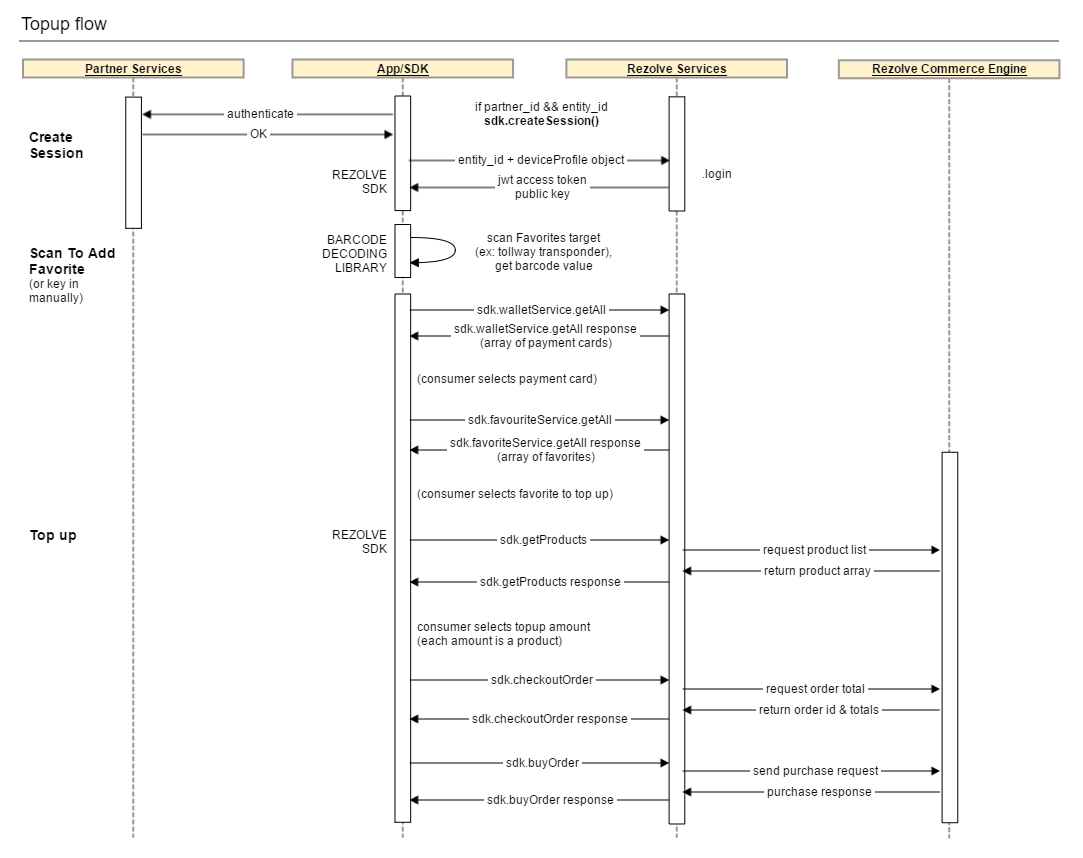
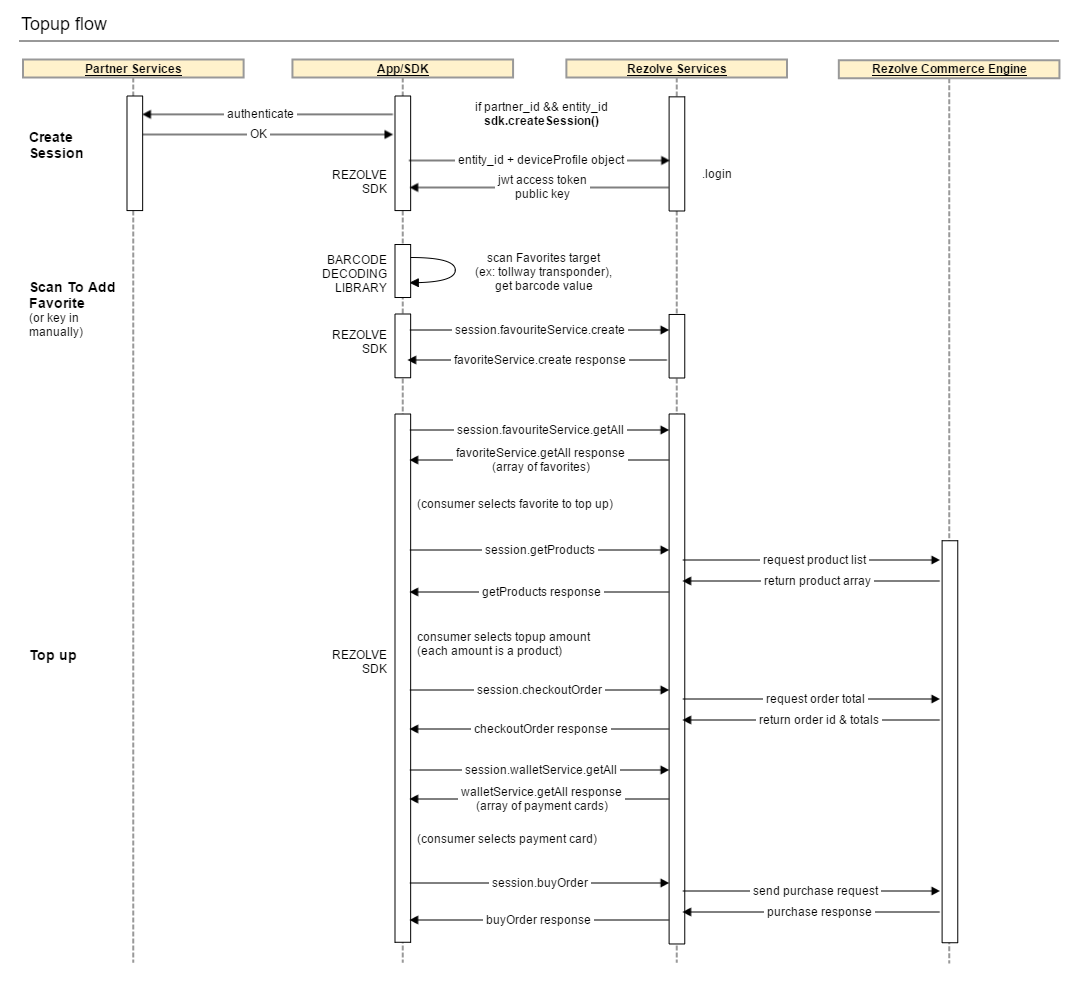
updated diagrams, added code sample holders.

diff --git a/source/index.html.md b/source/index.html.md
@@ -184,21 +184,24 @@ let sdk: RezolveSDK = RezolveSDK(apiKey: API_KEY, env: .Development)
 
 sdk.createSession(authenticationRequest: request) { (session: RezolveSession) in
 	// begin interacting with features
+    // example: session.CustomerProfileService.get
 }
 ```
 ```java
-private final static String API_KEY = "ABC123";
-private RezolveSession rezolveSession;
-
-RezolveSDK sdk = RezolveSDK.getInstance(API_KEY, RezolveSDK.Env.DEVELOPMENT);
+TODO add code sample
 ```
 To log in and interact with Rezolve services, you must establish a session. A session combines several functions, and abstracts them from the developer:
+
 * Verifies the validity of the mobile app, through the API key
 * Identifies the consumer and pairs them with a session token
 * Verifies each request from the mobile app by passing API Key and session token
 * establishes a public key for the session, for encrypting transmitted credit card info
 
-Once the user is authenticated on the partner side, make a call to `createSession{}`, passing in the `entity_id`. The server will respond with a session authentication token, and a session public key. The SDK takes care of managing these for the session. The auth token is used to authenticate each request from the client, while the public key is used for encrypting the transmission of sensitive information for this session.
+Once the user is authenticated on the partner side, make a call to `createSession{}`, passing in the `entity_id`. The server will respond with a session authentication token, and a session public key; the SDK takes care of managing these for the session. The auth token is used to authenticate each request from the client, while the public key is used for encrypting the transmission of payment card information for this session.
+
+When the session is established, you can begin to access services, for example:
+`session.CustomerProfileService.get`
+
 
 ### Logout Session
 
@@ -213,14 +216,16 @@ Logging a user out is as simple as passing the `entity_id` to the logout method.
 ## Consumer Profile Management
 
 Once logged in, you have access to the consumer's records. These include:
-* Consumer Profile - Name, email, and device profile (phone info) for the consumer
-* Address Book - A collection of postal addresses, to be used for ship-to and bill-to purposes.
-* Favorites - A collection of devices that can be topped up.  A favorite can represent a mobile phone, a tollway transponder, or other device/account.
-* Wallet - Wallet lets you store credit card info securely, and lets the consumer maintain the list of cards. There can be multiple cards.
+* Consumer Profile - Via the `ConsumerProfileService`. Name, email, and device profile (phone info) for the consumer
+* Address Book - Via the `AddressbookService`. A collection of postal addresses, to be used for ship-to and bill-to purposes.
+* Favorites - Via the `FavouriteService`. A collection of devices that can be topped up.  A favorite can represent a mobile phone, a tollway transponder, or other device/account.
+* Wallet - Via the `WalletService`. Wallet lets you store credit card info securely, and lets the consumer maintain the list of cards. There can be multiple cards.
 
-There are no specific flows to consider when managing the customer profile and assicated records. The consumer profile itself supports only update... no add or delete. 
+There are no specific flows to consider when managing the customer profile and assicated records.  
 
-Address Book, Favorites, and Wallet all support standard CRUD operations. 
+AddressbookService, FavouriteService, and WalletService support the following CRUD operations: `create`, `update`, `delete`, `getAll`, `get`.
+
+ProfileService supports only `update` and `get`.
 
 ## Instant buy flow
 
@@ -230,32 +235,95 @@ The premise of instant purchase is to capture an image scan (usually of an adver
 
 First, enable the scan screen, and capture a watermarked image. The Digimarc SDK will extract a Digimarc id from the image. Use the Digimarc SDK to fetch the "payoff" URL associated with the id from the Digimarc server. This url will point to a getProduct API endpoint.
 
+``` objective_c
+TODO add getProduct code sample, IOS
+```
+```java
+TODO add getProduct code sample, Android
+```
 Use the SDK `getProduct` call to retrieve product information. The `partner_id`, `merchant_id`, `catalog_id` and `product_id` will be in the URL received from Digimarc; the body of the request can be empty.  The response will include the title, price, description, variant choices, and images for the product.
 
+``` objective_c
+TODO add checkoutOrder code sample, IOS
+```
+```java
+TODO add checkoutOrder code sample, Android
+```
 Once you have product information, call the SDK `checkoutOrder` method. Pass in the merchant, type, delivery address id, loyalty info (if any), geolocation if available, and finally the information on the desired product, including variant choices.  The response will include an order id, final total price, and a price breakdown (composed of base price, variant price premium if any, shipping, and tax). 
 
+``` objective_c
+TODO add walletService.getAll code sample, IOS
+```
+```java
+TODO add walletService.getAll code sample, Android
+```
 If the consumer agrees with the price and wishes to complete the order, use `walletService.getAll` to list the available card choices. The consumer will choose a payment card.
 
 At this point, we recommend using a "slide to buy" button to confirm purchase intent, while preserving the maximum ease of use.
 
+``` objective_c
+TODO add buyOrder code sample, IOS
+```
+```java
+TODO add buyOrder code sample, Android
+```
 When the user confirms intent, pass the card choice and the entered CVV value to the `buyOrder` method. The response will contain either an order confirmation with receipt info, or if rejected, an error with the reason for the order rejection.
 
 ## Top Up flow
 
 <img src="images/Topup%20Flow.png" style="margin:6px 0;"><br/>[ <a href="images/Topup%20Flow.png">View full size</a> ]
 
-The top up flow gives the mobile consumer the ability to add money to a remote account that is linked with a specific device, such as a mobile phone or tollway transponder. The consumer must have first added the topup device (called a Favorite) to their account, using the `favouriteService.create` method. Once there is one or more favorites, use the `favouriteService.getAll` method to list them. The customer will choose a favorite.
+``` objective_c
+TODO add FavouriteService.create code sample, IOS
+```
+```java
+TODO add FavouriteService.create code sample, Android
+```
 
+The top up flow gives the mobile consumer the ability to add money to a remote account that is linked with a specific device, such as a mobile phone or tollway transponder. The consumer must have first added the topup device (called a Favorite) to their account, using the `FavouriteService.create` method. 
+
+``` objective_c
+TODO add FavouriteService.getAll code sample, IOS
+```
+```java
+TODO add FavouriteService.getAll code sample, Android
+```
+Once there is one or more favorites, use the `FavouriteService.getAll` method to list them. The customer will choose a favorite.
+
+``` objective_c
+TODO add getProducts code sample, IOS
+```
+```java
+TODO add getProducts code sample, Android
+```
 The customer then wants to see a list of top up amounts. To accomplish this, we use the `getProducts` method, passing in a fixed category id. Note that each top up amount is stored in the catalog as a separate product with it's own SKU.
 
 Display the list of top up choices. You can display each "product" as a currency amount, or utilize the "description" field of the product to give more information about the topup. It depends on your application. The consumer will choose a top up amount.
 
+``` objective_c
+TODO add checkoutOrder code sample, IOS
+```
+```java
+TODO add checkoutOrder code sample, Android
+```
 When you have the product choice, call the SDK `checkoutOrder` method. Pass in the merchant, type, delivery address id, loyalty info (if any), geolocation if available, and finally the information on the chosen product.  The response will include an order id, final total price, and a price breakdown (composed of base price, shipping, and tax).
 
+``` objective_c
+TODO add walletService.getAll code sample, IOS
+```
+```java
+TODO add walletService.getAll code sample, Android
+```
 If the consumer agrees with the price and wishes to complete the order, use `walletService.getAll` to list the available card choices. The consumer will choose a payment card.
 
 At this point, we recommend using a "slide to buy" button to confirm purchase intent, while preserving the maximum ease of use.
 
+``` objective_c
+TODO add buyOrder code sample, IOS
+```
+```java
+TODO add buyOrder code sample, Android
+```
 When the user confirms intent, pass the card choice and the entered CVV value to the `buyOrder` method. The response will contain either an order confirmation with receipt info, or if rejected, an error with the reason for the order rejection.
 
 
@@ -267,13 +335,12 @@ When the user confirms intent, pass the card choice and the entered CVV value to
 
 # Module Reference Docs
 
+## Authentication
+
 ## Customer
-
-### Register customer method
-
-### Log in customer
-
-### Log out customer
 
 ## Shop
 
+## Activity
+
+## Check Version
